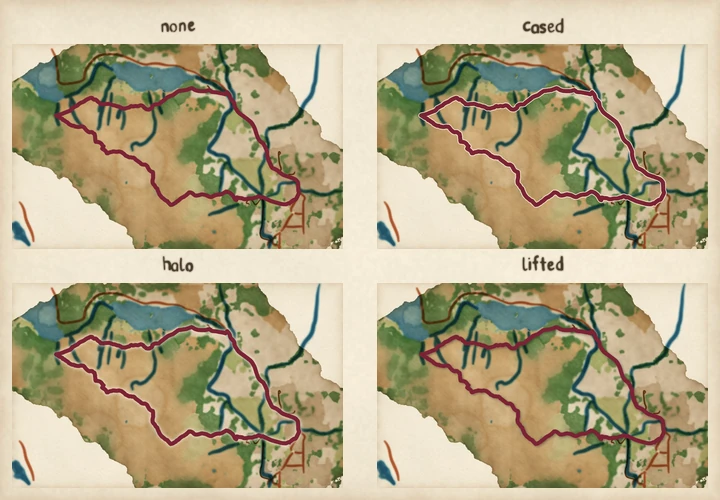
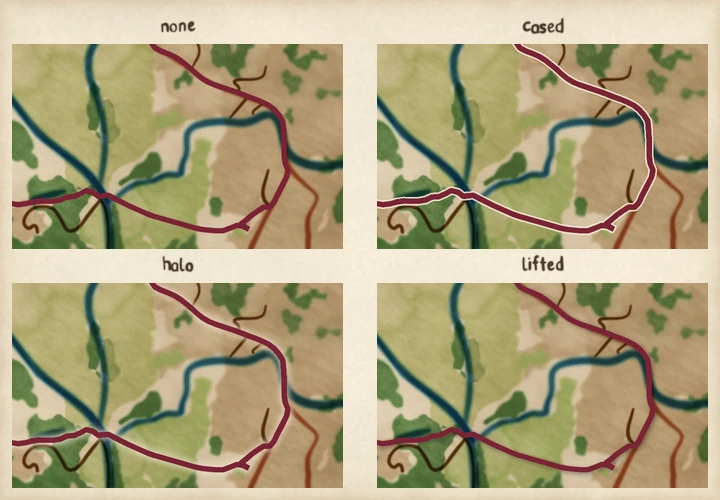
docs(docs): crop the presets figure so each preset reads
Claude-Session: https://claude.ai/code/session_01FWNGTJLy72Gh2VopEVwzsE

diff --git a/examples/how_to_line_effects.py b/examples/how_to_line_effects.py
@@ -6,8 +6,9 @@ Two figures, picked by `figure`, both painted on the Ambleside fixture.
   look, with its main road cased and its route lifted by a shadow. Both are effect presets named
   under `line_effects:` in the theme, so the script paints nothing special: it loads the theme
   and runs `fetch`, `paint`, `letter` and `compose`.
-- `"presets"` is four small cards cropped to the loop, two across and two down: the route with no effect,
-  then with the `cased`, `halo` and `lifted` presets. The route's effects are laid at compose,
+- `"presets"` is four small cells, two across and two down, each the same close window on the
+  stretch of the loop where the route meets a river and a road: the route with no effect, then with
+  the `cased`, `halo` and `lifted` presets, at a scale where the route is several pixels wide. The route's effects are laid at compose,
   so the plates are painted once and composed four times. Each cell's style comes from a theme
   file the script writes in a temporary directory, holding `extends: <ambleside.yaml>` and
   `line_effects: {route: <preset>}`, and read with `Style.from_yaml`; the no-effect cell is
@@ -70,10 +71,11 @@ ACROSS = 2
 #: between them (a row's gap holds the names of the row below).
 #: The cells sit two across and two down.
 GRID_W, LEFT, TOP, PAD, GAP = 720, 12, 44, 12, 34
-#: How many times a cell's size its card is painted before it is brought down with Lanczos.
-PAINT_SCALE = 2
-#: How much of the route's width a cell draws; the cell is small, so the route is a little heavier.
-CELL_ROUTE_SCALE = 1.5
+#: How many times a cell's width the loop is painted across, so a cell shows a close window of it and
+#: the route is wide enough for each preset to read; and where the window's top left corner is, as shares
+#: of the card's width and height. The window is `1 / ZOOM` of the card across, the same in every cell,
+#: where the route crosses a river and a road.
+ZOOM, WINDOW_AT = 5, (0.70, 0.60)
 #: The ribbon fields that crop a cell to the loop, as `how_to_route_ink.py` crops its grid.
 CROP: dict[str, float] = {
     "ribbon_k": 4.0,
@@ -110,21 +112,20 @@ def _card(
 
 
 def _cell_style(style: Style, cell_w: int) -> Style:
-    """The style at cell size: a card `cell_w` wide at `PAINT_SCALE`, cropped to the loop."""
-    small = style.model_copy(
+    """The style at card size: `cell_w * ZOOM` wide, cropped to the loop."""
+    return style.model_copy(
         update={
-            "card": dataclasses.replace(style.card, display_px=cell_w * PAINT_SCALE),
+            "card": dataclasses.replace(style.card, display_px=cell_w * ZOOM),
             "ribbon": dataclasses.replace(style.ribbon, **CROP),
         }
     )
-    small = small.with_route_ink(width_px=small.route_ink.px * CELL_ROUTE_SCALE)
-    return small.model_copy(
-        update={
-            "route": dataclasses.replace(
-                small.route, route_pen_width_px=small.route.route_pen_width_px * CELL_ROUTE_SCALE
-            )
-        }
-    )
+
+
+def _window(card: Image.Image) -> Image.Image:
+    """The close window of a composed card that its cell shows: the same box in every cell."""
+    width, height = card.size
+    left, top = round(WINDOW_AT[0] * width), round(WINDOW_AT[1] * height)
+    return card.crop((left, top, left + round(width / ZOOM), top + round(height / ZOOM)))
 
 
 def _styles(scratch: Path) -> list[Style]:
@@ -145,7 +146,7 @@ def _presets(
     cache: Cache,
     providers: tuple[OverpassFeatures, OpenTopoData],
 ) -> Path:
-    """Paint the cells once, compose each preset over them, name them and save `line_effects_presets.png`."""
+    """Paint the loop once, compose each preset, crop each to its window, name them and save `line_effects_presets.png`."""
     features, elevation = providers
     cell_w = (GRID_W - LEFT - PAD - GAP * (ACROSS - 1)) // ACROSS
     with tempfile.TemporaryDirectory() as scratch:
@@ -153,7 +154,7 @@ def _presets(
     basemap = fetch(route, cache, features, elevation, styles[0])
     plates = paint(basemap, styles[0], cache.plates_dir(cache.key(route, features, elevation)))
     unlettered = Lettering((), (), None)
-    cells = [compose(plates, unlettered, basemap, s, attribution=False) for s in styles]
+    cells = [_window(compose(plates, unlettered, basemap, s, attribution=False)) for s in styles]
     cell_h = round(cells[0].height * cell_w / cells[0].width)
     spec = GridSpec(GRID_W, ACROSS, len(CELLS) // ACROSS, cell_h, LEFT, TOP, GAP, PAD, PAD)
     boxes = spec.boxes()

diff --git a/docs/how-to/case-light-or-shadow-a-line.md b/docs/how-to/case-light-or-shadow-a-line.md
@@ -54,10 +54,10 @@ line_effects:
   route: lifted
 ```
 
-`road_major` is the main road, which the casing cuts out of the farmland and wood it crosses, and `route` is the route, which the shadow lifts off the page. The four small cards below show the route's three presets next to none, all painted from one set of plates, because a route effect is laid at compose and repaints nothing.
+`road_major` is the main road, which the casing cuts out of the farmland and wood it crosses, and `route` is the route, which the shadow lifts off the page. The four cells below show the route's three presets next to none, all cropped to the same close window on the loop, where the route crosses a river and runs beside a road, and all painted from one set of plates, because a route effect is laid at compose and repaints nothing.
 
-![The Ambleside loop four times, two across and two down: the route plain, then with a thin ring of paper round it, then with a soft pale margin, then with a soft shadow to its south-east.](../images/how-to/line-effects-presets.webp)
+![One close window on the Ambleside loop four times, two across and two down, where the route crosses a river beside a road: the route plain, then with a ring of paper round it, then with a soft pale margin, then with a soft shadow to its south-east.](../images/how-to/line-effects-presets.webp)
 
-*Painted by `examples/how_to_line_effects.py` (figure presets, theme `examples/themes/ambleside.yaml`). The names are none, cased, halo and lifted; each card but the first reads a theme file that extends `ambleside.yaml` and sets `line_effects: {route: <name>}`.*
+*Painted by `examples/how_to_line_effects.py` (figure presets, theme `examples/themes/ambleside.yaml`). The names are none, cased, halo and lifted; each cell but the first reads a theme file that extends `ambleside.yaml` and sets `line_effects: {route: <name>}`.*
 
 A preset suits a line the way its effect does. `cased` separates a road from busy colour, `halo` lifts a river or a route out of dark woodland, and `lifted` sets a route on the page. To use other numbers, write the stack out under the class, or name a preset of your own in `effect_presets:`, both described in [Write a theme](write-a-theme.md). A class on a basemap line repaints the base plates when it changes, and the route does not: see which digest each class moves in [Line effects](../reference/line-effects.md).

diff --git a/docs/gallery.md b/docs/gallery.md
@@ -186,9 +186,9 @@ Every picture in these docs is painted by pyntpot from a script in `examples/`, 
 
 *Painted by `examples/line_effect_grids.py` (figure shadow). The labels read 0, 1.5, 3 and 5 across, and 1 and 3 down.*
 
-![The Ambleside loop four times, two across and two down: the route plain, then with a thin ring of paper round it, then with a soft pale margin, then with a soft shadow to its south-east.](images/how-to/line-effects-presets.webp)
+![One close window on the Ambleside loop four times, two across and two down, where the route crosses a river beside a road: the route plain, then with a ring of paper round it, then with a soft pale margin, then with a soft shadow to its south-east.](images/how-to/line-effects-presets.webp)
 
-*Painted by `examples/how_to_line_effects.py` (figure presets). The names are none, cased, halo and lifted.*
+*Painted by `examples/how_to_line_effects.py` (figure presets). The names are none, cased, halo and lifted; each cell is the same close window on the loop.*
 
 ![A thin ink line over a grey tint in two rows of five. The first column is the bare line; the others leave a strip of bare paper round the line, edged by two ink lines, the strip widening from left to right and the edge lines thicker in the bottom row.](images/painting-with-python/pen-casing-sweep.webp)
 
